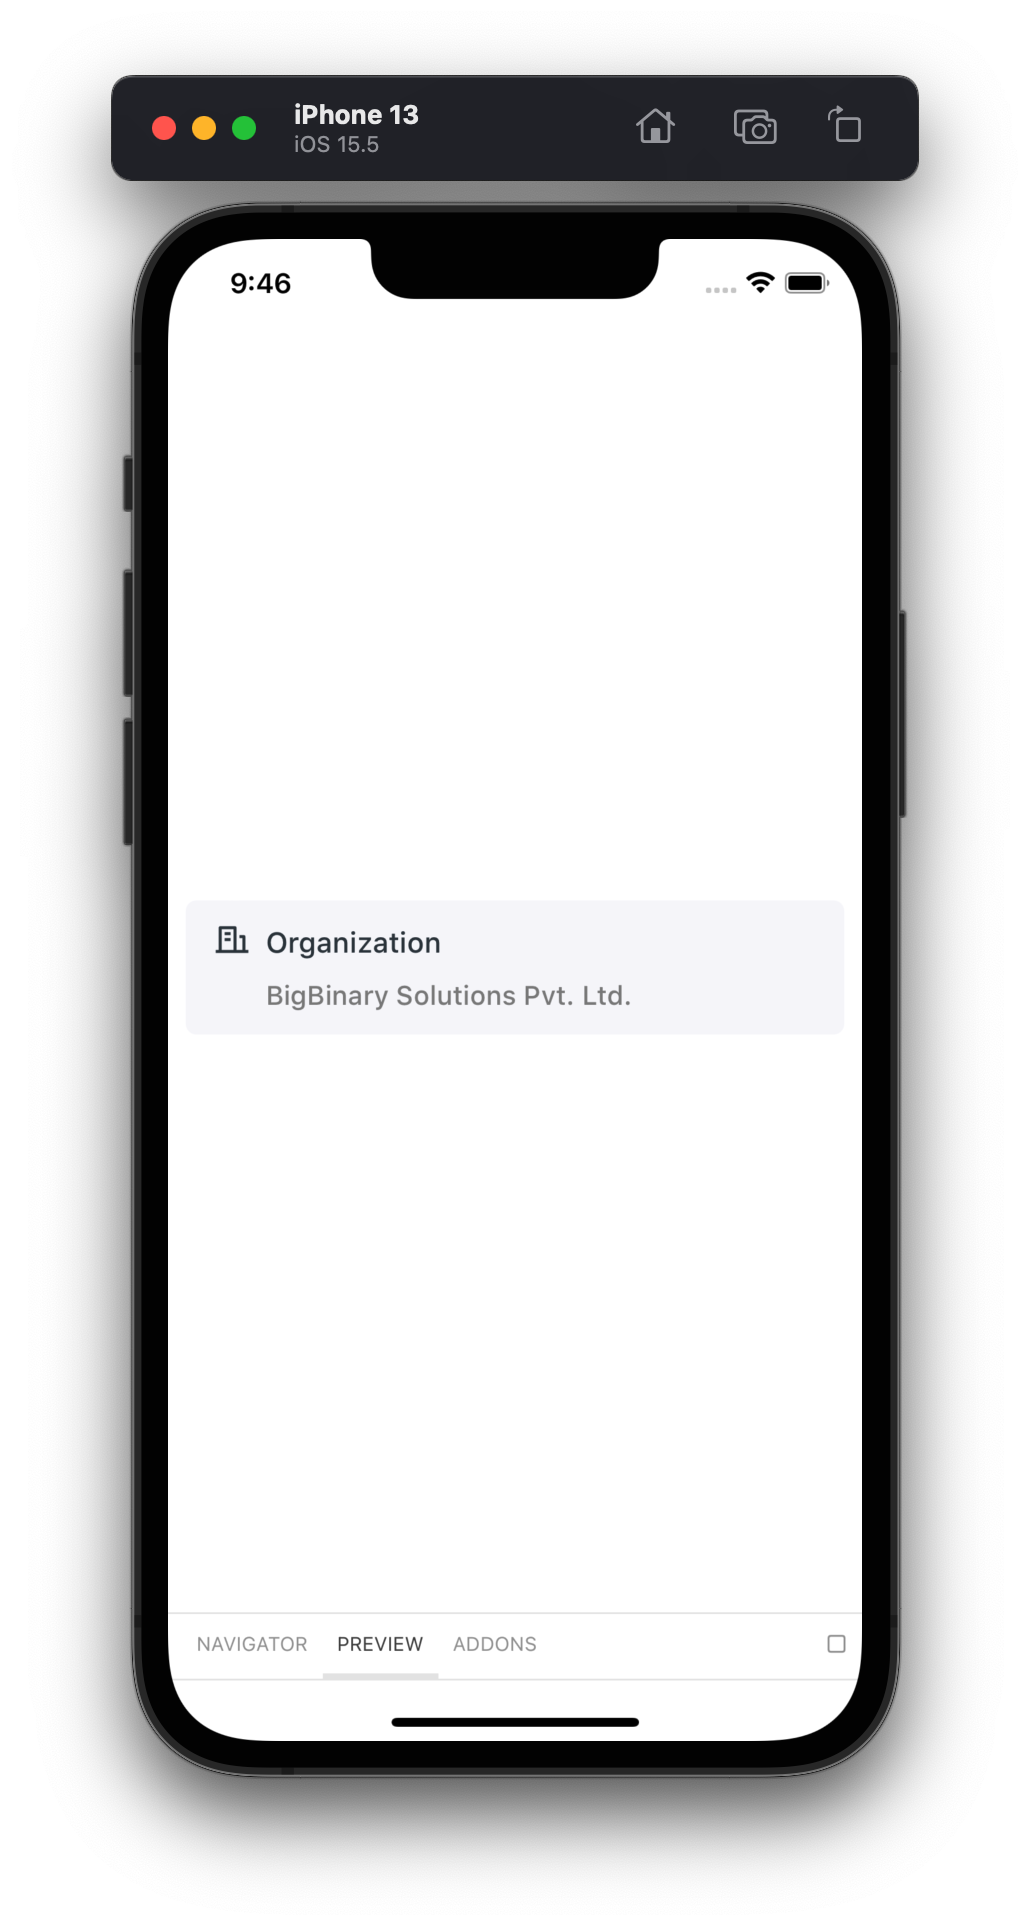
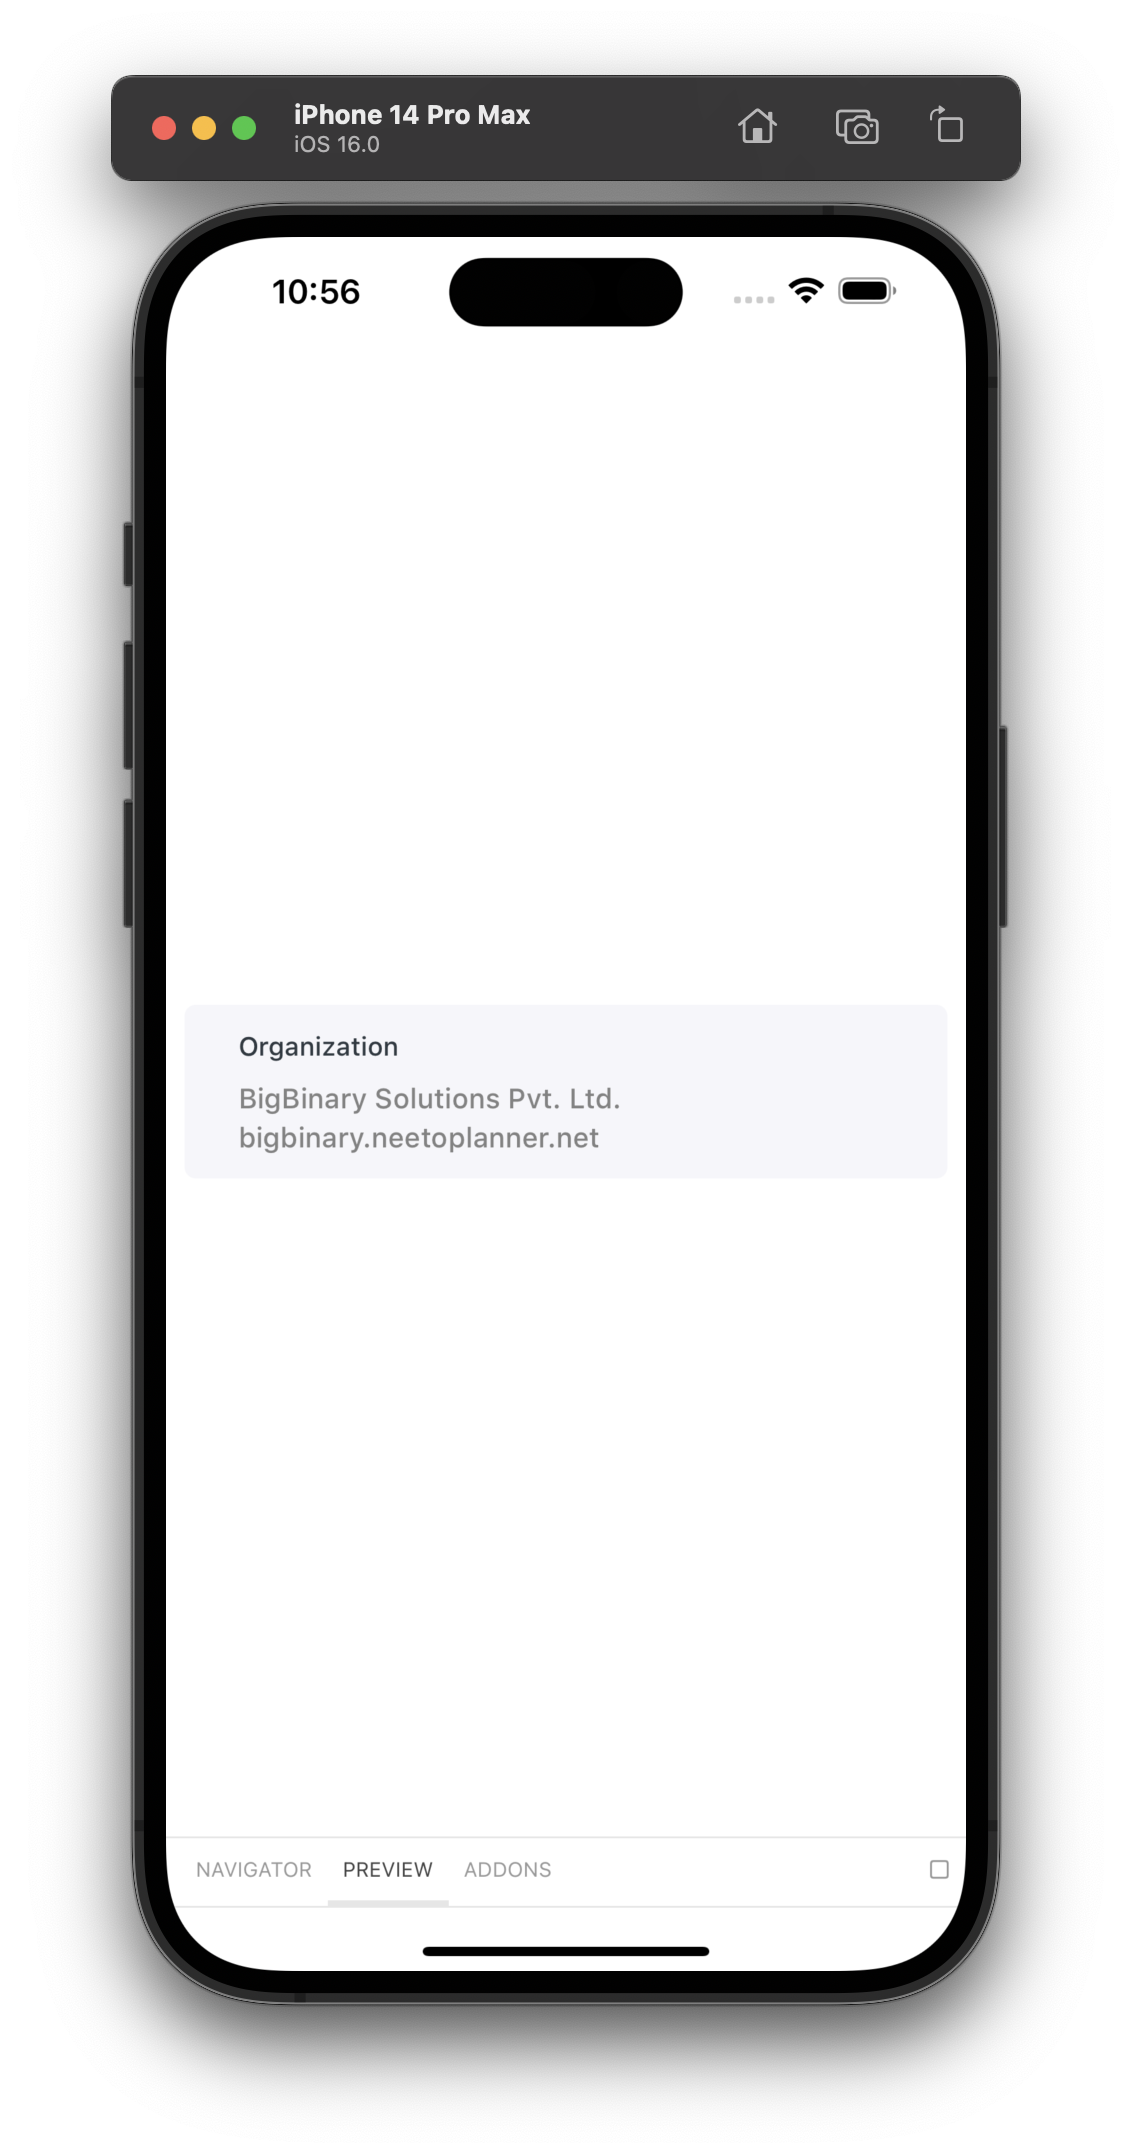
displayed subdomain (#531)

Changed region(s): [[0.0932, 0.0311, 0.901, 0.9647], [0.2175, 0.4668, 0.5903, 0.529]]

diff --git a/src/components/OrganizationItem.jsx b/src/components/OrganizationItem.jsx
@@ -1,8 +1,6 @@
-import React, { useContext } from "react";
+import React from "react";
 
 import PropTypes from "prop-types";
-import Icon from "react-native-remix-icon";
-import { ThemeContext } from "styled-components/native";
 
 import { Container, Typography } from "@components";
 
@@ -31,60 +29,51 @@ import { Container, Typography } from "@components";
 export const OrganizationItem = ({
   label,
   labelContainerProps,
-  iconContainerProps,
-  iconProps,
   labelProps,
   name,
   nameProps,
+  subdomain,
+  subdomainProps,
   ...rest
-}) => {
-  const theme = useContext(ThemeContext);
-
-  return (
-    <Container
-      bg="background.secondary"
-      borderRadius={6}
-      justifyContent="space-between"
-      px={16}
-      py={12}
-      width="100%"
-      {...rest}
-    >
-      <Container
-        alignItems="center"
-        flexDirection="row"
-        {...labelContainerProps}
-      >
-        <Container mr={9} {...iconContainerProps}>
-          <Icon
-            color={theme.colors.font.grey800}
-            name="building-line"
-            size={20}
-            {...iconProps}
-          />
-        </Container>
-        <Typography
-          color="font.grey800"
-          fontFamily="sf500"
-          fontSize="l"
-          {...labelProps}
-        >
-          {label || "Organization"}
-        </Typography>
-      </Container>
+}) => (
+  <Container
+    bg="background.secondary"
+    borderRadius={6}
+    justifyContent="space-between"
+    px={29}
+    py={12}
+    width="100%"
+    {...rest}
+  >
+    <Container alignItems="center" flexDirection="row" {...labelContainerProps}>
       <Typography
-        color="font.grey"
+        color="font.grey800"
         fontFamily="sf500"
-        fontSize="m"
-        ml={29}
-        mt="8px"
-        {...nameProps}
+        fontSize="s"
+        {...labelProps}
       >
-        {name}
+        {label || "Organization"}
       </Typography>
     </Container>
-  );
-};
+    <Typography
+      color="font.grey"
+      fontFamily="sf500"
+      fontSize="m"
+      mt="8px"
+      {...nameProps}
+    >
+      {name}
+    </Typography>
+    <Typography
+      color="font.grey"
+      fontFamily="sf500"
+      fontSize="m"
+      {...subdomainProps}
+    >
+      {subdomain}
+    </Typography>
+  </Container>
+);
 
 OrganizationItem.propTypes = {
   /**
@@ -95,14 +84,6 @@ OrganizationItem.propTypes = {
    * Customize label container
    */
   labelContainerProps: PropTypes.object,
-  /**
-   * Customize icon container
-   */
-  iconContainerProps: PropTypes.object,
-  /**
-   * Customize icon
-   */
-  iconProps: PropTypes.object,
   /**
    * Customize label
    */
@@ -115,4 +96,12 @@ OrganizationItem.propTypes = {
    * Customize name
    */
   nameProps: PropTypes.object,
+  /**
+   * Subdomain
+   */
+  subdomain: PropTypes.string.isRequired,
+  /**
+   * Customize Subdomain
+   */
+  subdomainProps: PropTypes.object,
 };

diff --git a/.storybook/storybook.requires.js b/.storybook/storybook.requires.js
@@ -28,6 +28,7 @@ argsEnhancers.forEach((enhancer) => addArgsEnhancer(enhancer));
 
 const getStories = () => {
   return [
+    require("../storybook/stories/OrganizationItem.stories.jsx"),
     require("../storybook/stories/_Home.stories.jsx"),
     require("../storybook/stories/Accordion.stories.jsx"),
     require("../storybook/stories/Alert.stories.jsx"),
@@ -52,7 +53,6 @@ const getStories = () => {
     require("../storybook/stories/MultiSelect.stories.jsx"),
     require("../storybook/stories/NotificationPreferenceList.stories.jsx"),
     require("../storybook/stories/OnBoarding.stories.jsx"),
-    require("../storybook/stories/OrganizationItem.stories.jsx"),
     require("../storybook/stories/OtpInputs.stories.jsx"),
     require("../storybook/stories/Popover.stories.jsx"),
     require("../storybook/stories/RadioButton.stories.jsx"),

diff --git a/storybook/stories/OrganizationItem.stories.jsx b/storybook/stories/OrganizationItem.stories.jsx
@@ -11,6 +11,9 @@ export default OrganizationItemMetaData;
 
 export const OrganizationItemComponent = () => (
   <Container alignItems="center" flex={1} justifyContent="center">
-    <OrganizationItem name="BigBinary Solutions Pvt. Ltd." />
+    <OrganizationItem
+      name="BigBinary Solutions Pvt. Ltd."
+      subdomain="bigbinary.neetoplanner.net"
+    />
   </Container>
 );
